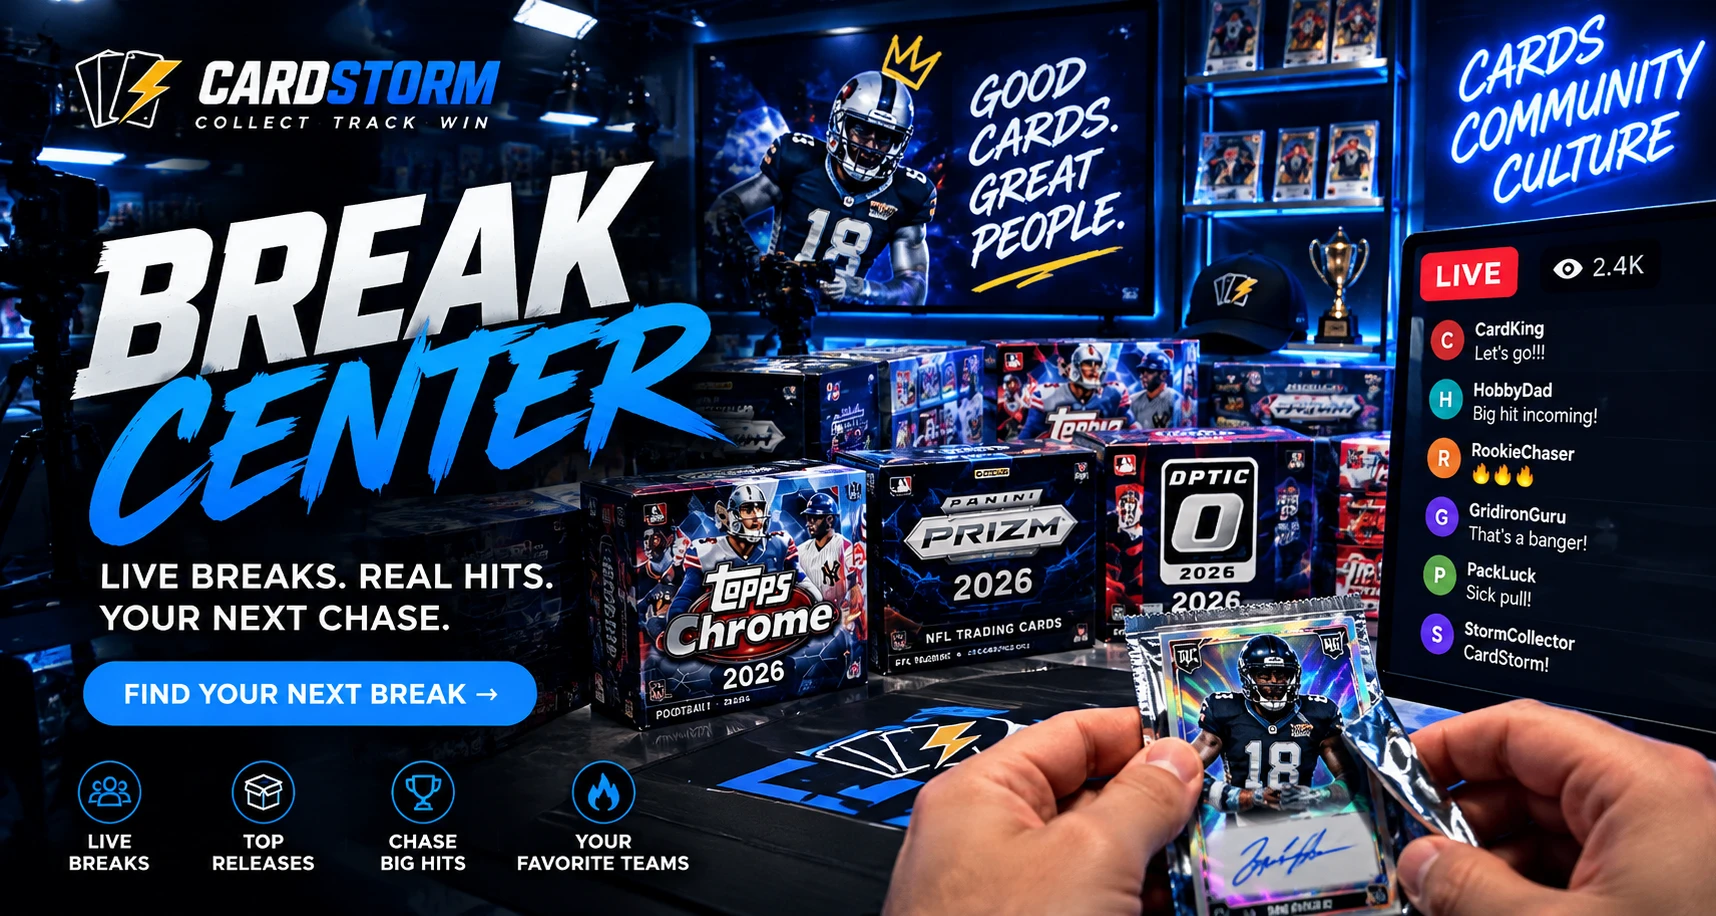
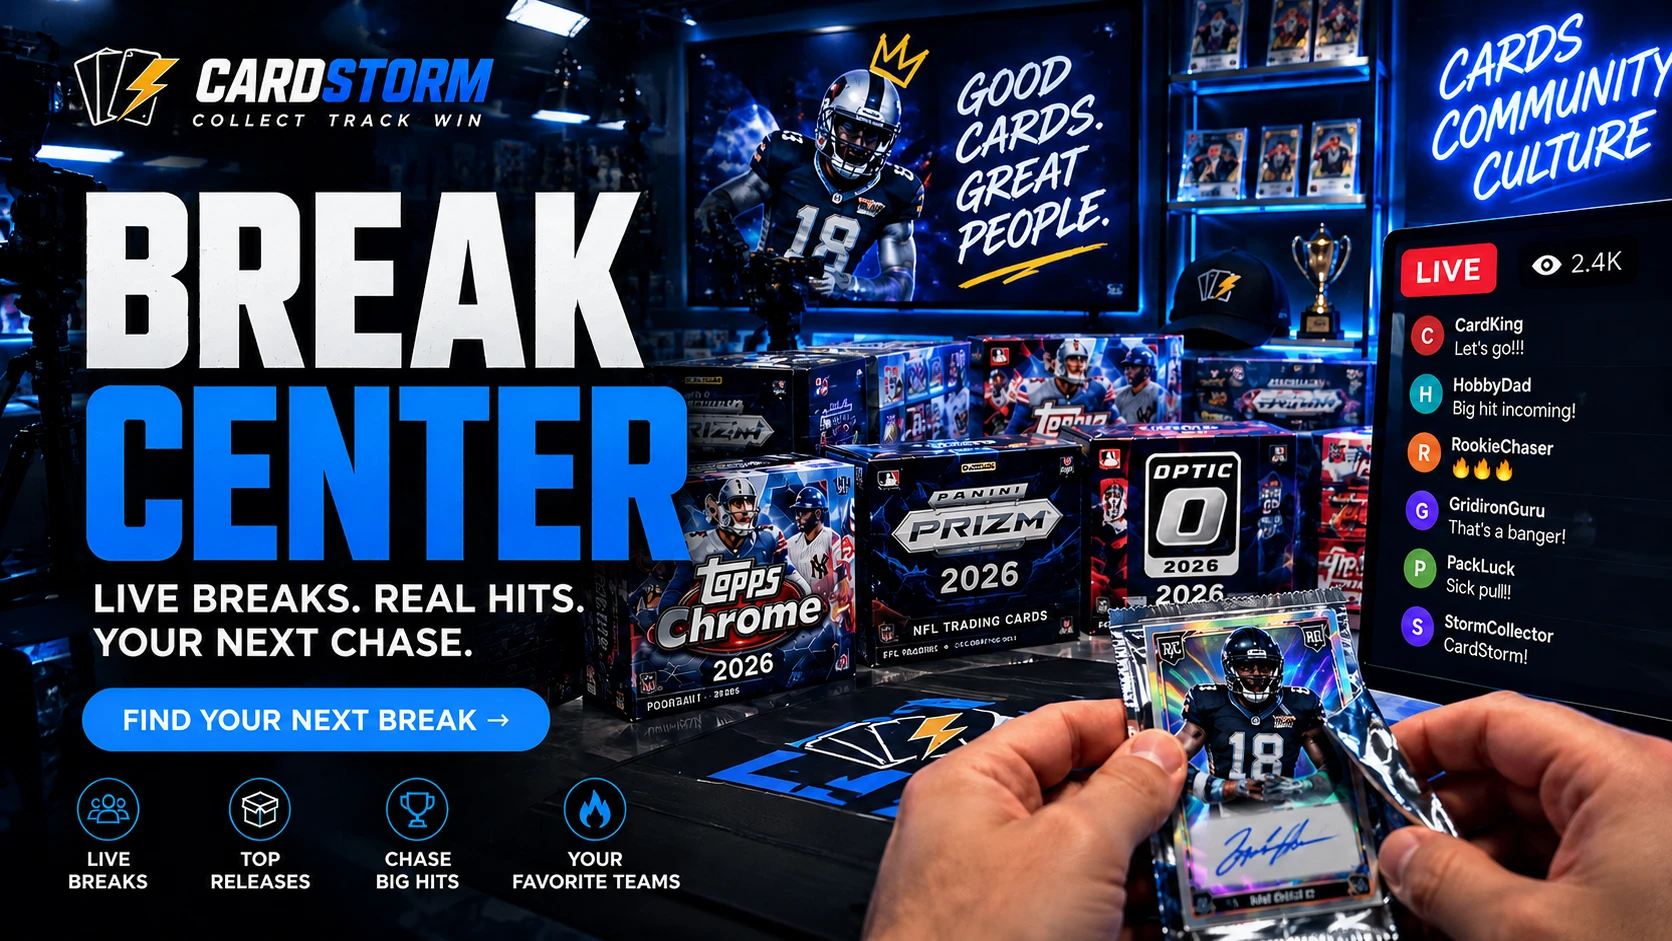
Swap in corrected Break Center artwork with matching bold headline font
Replaces the previous Break Center hero, which used a brush-script
"BREAK CENTER" font baked into the artwork that didn't match the bold
block headline style used on Rookies, Goats, and Know the Worth. The
new image (same composition, same "FIND YOUR NEXT BREAK" CTA) has the
correct font baked in from the source instead of a patched-in
replacement. Re-measured the button's pixel position for the new
image's exact dimensions (1672x941, vs. the previous 1716x916) and
updated artRatio/artButtons accordingly.

Verified via Playwright: button hit-tests correctly and routes to
#breaks, image loads, no console errors, full 6-hero regression
otherwise unaffected.

Claude-Session: https://claude.ai/code/session_01JJVygzMM7vYqWpV82h6K35

diff --git a/index.html b/index.html
@@ -242,7 +242,7 @@ const STARS=[
  {tab:'ROOKIES',dd:'rookies',kicker:'ROOKIE SEASON',h1:'ROOKIES TODAY.<br><span>STARS TOMORROW.</span>',sub:'Discover the rookies, track their rise, and find the cards before the hobby does.',p:'#19c6ff',mode:'photo',finished:true,img:'assets/homepage/categories/rookies-hero.webp',artRatio:'1919/725',artButtons:[{x:3.44,y:64.55,w:21.05,h:10.48,key:'team',label:'Explore Rookies'},{x:25.53,y:64.55,w:17.51,h:10.48,key:'market',label:'View Top Movers'}],imageKey:'team',actions:[{label:'EXPLORE ROOKIES',key:'team'},{label:'VIEW TOP MOVERS',key:'market'}]},
  {tab:'LIVE CARDS',dd:'live',kicker:'LIVE CARDS',h1:'LIVE CARDS.<br><span>REAL ACTION.</span><br><span>RIGHT NOW.</span>',sub:'Live listings. Live sales. Live momentum. Be in the action as it happens.',p:'#ff3d4d',mode:'photo',finished:true,img:'assets/homepage/categories/live-cards-hero.webp',artRatio:'1672/941',artButtons:[{x:2.27,y:75.24,w:21.65,h:6.16,key:'live',label:'Explore Live Cards'},{x:25.0,y:75.24,w:19.86,h:6.16,key:'market',label:'View Recent Sales'}],imageKey:'live',actions:[{label:'EXPLORE LIVE CARDS',key:'live'},{label:'VIEW RECENT SALES',key:'market'}]},
  {tab:'KNOW THE WORTH',dd:'intel',kicker:'KNOW THE WORTH',h1:'KNOW<br><span>THE WORTH.</span>',sub:'Track comps, spot trends, and know what to hunt before you buy into a set.',p:'#d7a92d',mode:'photo',finished:true,img:'assets/homepage/categories/know-the-worth-hero.webp',artRatio:'1536/1024',artButtons:[{x:1.95,y:54.2,w:25.39,h:4.39,key:'market',label:'Check Card Values',visible:true}],imageKey:'market',actions:[{label:'CHECK CARD VALUES',key:'market'},{label:'VIEW MARKET TRENDS',key:'market'}]},
- {tab:'BREAK CENTER',dd:'breaks',kicker:'BREAK CENTER',h1:'REAL BREAKS.<br><span>REAL HITS.</span>',sub:'Find live and upcoming breaks, check team availability, and chase the biggest hits with the CardStorm community.',p:'#ff8a3d',mode:'photo',finished:true,img:'assets/homepage/categories/break-center-hero.webp',artRatio:'1716/916',artButtons:[{x:4.08,y:71.51,w:28.27,h:7.09,key:'breaks',label:'Find Your Next Break'}],imageKey:'breaks',actions:[{label:'ENTER BREAK CENTER',key:'breaks'},{label:'FIND YOUR NEXT BREAK',key:'breaks'}]},
+ {tab:'BREAK CENTER',dd:'breaks',kicker:'BREAK CENTER',h1:'REAL BREAKS.<br><span>REAL HITS.</span>',sub:'Find live and upcoming breaks, check team availability, and chase the biggest hits with the CardStorm community.',p:'#ff8a3d',mode:'photo',finished:true,img:'assets/homepage/categories/break-center-hero.webp',artRatio:'1672/941',artButtons:[{x:4.96,y:72.69,w:25.96,h:6.48,key:'breaks',label:'Find Your Next Break'}],imageKey:'breaks',actions:[{label:'ENTER BREAK CENTER',key:'breaks'},{label:'FIND YOUR NEXT BREAK',key:'breaks'}]},
  {tab:'GOATS',dd:'goats',kicker:'GOATS',h1:'LEGENDS.<br><span>SERIOUS VALUE.</span>',sub:'Legends. Case hits. Iconic cards. Serious value.',p:'#b3222f',mode:'photo',finished:true,img:'assets/homepage/categories/goats-hero.webp',artRatio:'1716/916',artButtons:[{x:38.17,y:72.05,w:21.27,h:7.10,key:'team',label:'Explore Goats'}],imageKey:'team',actions:[{label:'EXPLORE GOATS',key:'team'},{label:'VIEW LEGEND LIST',key:'team'}]},
  {tab:'POKÉMON / TCG',dd:'tcg',kicker:'POKÉMON / TCG',h1:'COLLECT. BATTLE.<br><span>BELONG.</span>',sub:'Explore top sets, track values, and dive into the world of Pokémon TCG.',p:'#ffcb05',mode:'photo',finished:true,img:'assets/homepage/categories/pokemon-tcg-hero.webp',artRatio:'1716/917',artButtons:[{x:36.13,y:71.98,w:27.10,h:7.09,key:'pokemon',label:'Explore Pokemon TCG'}],imageKey:'pokemon',actions:[{label:'EXPLORE POKÉMON',key:'pokemon'},{label:'VIEW TOP CARDS',key:'pokemon'}]}
 ];
